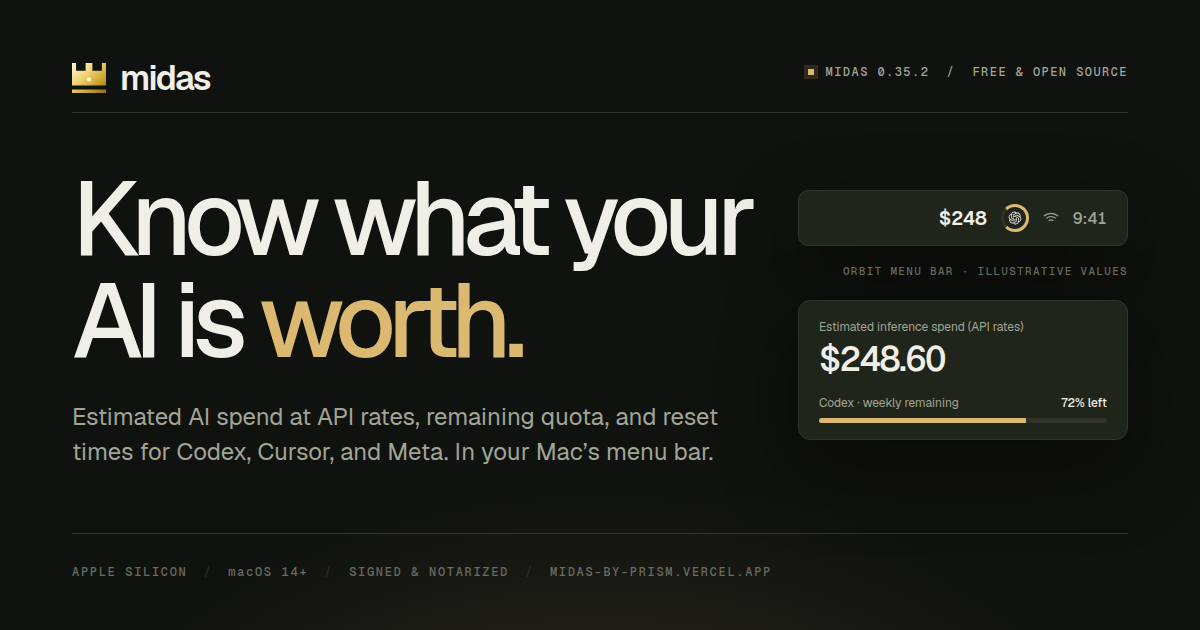
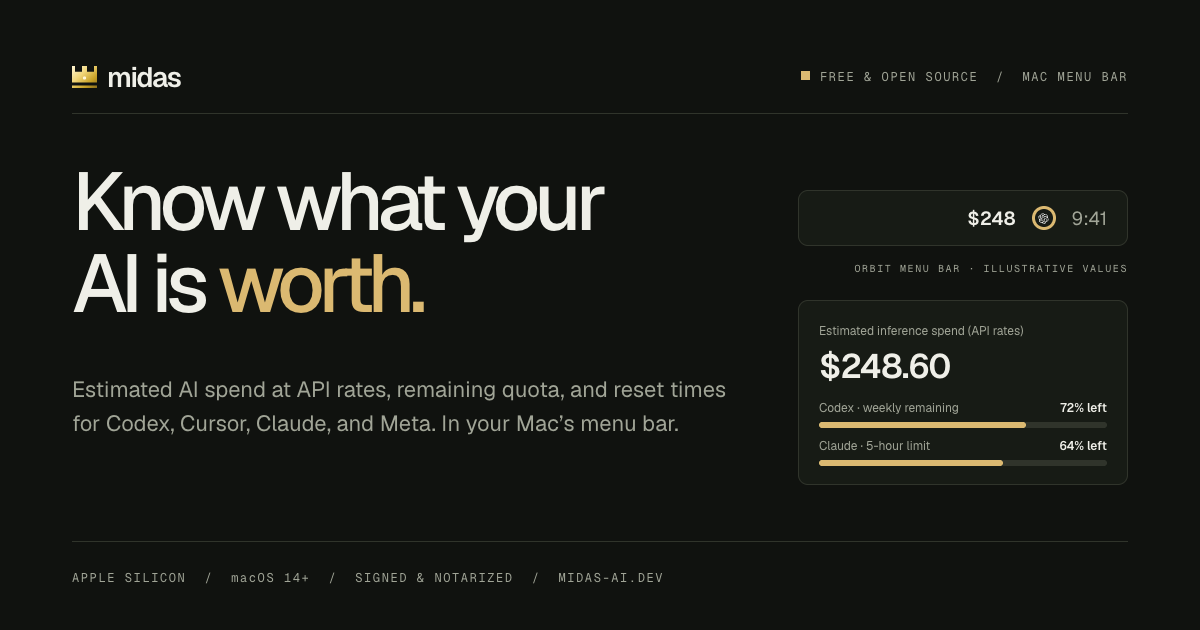
Bring the site up to date with Midas 0.37.1
- Canonical, Open Graph, robots, and sitemap URLs move to midas-ai.dev; the
  midas-by-prism.vercel.app host permanently redirects there.
- Regenerate the social image (it still said 0.35.2 and the vercel.app domain);
  it is now version-free and its composition lives in docs/og.html.
- Add Claude 5-hour/weekly limits and Anthropic billed API spend (0.36.0) to
  the hero, features, setup note, FAQ, and provider strip (50+ providers).
- Fix the FAQ claim that the bundle keeps the CodexBar filename (untrue since
  0.37.0) and explain the one-time manual update from 0.36.0 or earlier.

diff --git a/index.html b/index.html
@@ -5,9 +5,9 @@
   <meta charset="UTF-8" /><meta name="viewport" content="width=device-width, initial-scale=1.0" />
   <meta name="theme-color" content="#f7f7f2" />
   <title>Midas — See what your AI subscriptions are worth</title>
-  <meta name="description" content="Midas is a free, open-source Mac menu bar app for heavy AI users. It shows your estimated inference spend at API rates, remaining quota, reset times, and banked resets for Codex, Cursor, Meta, and more." />
-  <meta property="og:title" content="Midas — See what your AI subscriptions are worth" /><meta property="og:description" content="Estimated AI spend at API rates, remaining quota, and reset times for Codex, Cursor, and Meta, in your Mac’s menu bar. Free and open source." /><meta property="og:type" content="website" /><meta property="og:site_name" content="Midas" />
-  <meta name="twitter:card" content="summary_large_image" /><meta name="twitter:title" content="Midas — See what your AI subscriptions are worth" /><meta name="twitter:description" content="Estimated AI spend at API rates, remaining quota, and reset times for Codex, Cursor, and Meta, in your Mac’s menu bar. Free and open source." /><meta property="og:image" content="https://midas-by-prism.vercel.app/og.png?v=2" /><meta property="og:image:width" content="1200" /><meta property="og:image:height" content="630" /><meta property="og:image:alt" content="Midas: Know what your AI is worth. Estimated AI spend at API rates, remaining quota, and reset times for Codex, Cursor, and Meta, in your Mac’s menu bar. Shown with an illustrative Orbit menu-bar reading and spend card." /><meta property="og:image:type" content="image/png" /><meta name="twitter:image" content="https://midas-by-prism.vercel.app/og.png?v=2" /><meta property="og:url" content="https://midas-by-prism.vercel.app/" /><link rel="canonical" href="https://midas-by-prism.vercel.app/" />
+  <meta name="description" content="Midas is a free, open-source Mac menu bar app for heavy AI users. It shows your estimated inference spend at API rates, remaining quota, reset times, and banked resets for Codex, Cursor, Claude, Meta, and more." />
+  <meta property="og:title" content="Midas — See what your AI subscriptions are worth" /><meta property="og:description" content="Estimated AI spend at API rates, remaining quota, and reset times for Codex, Cursor, Claude, and Meta, in your Mac’s menu bar. Free and open source." /><meta property="og:type" content="website" /><meta property="og:site_name" content="Midas" />
+  <meta name="twitter:card" content="summary_large_image" /><meta name="twitter:title" content="Midas — See what your AI subscriptions are worth" /><meta name="twitter:description" content="Estimated AI spend at API rates, remaining quota, and reset times for Codex, Cursor, Claude, and Meta, in your Mac’s menu bar. Free and open source." /><meta property="og:image" content="https://midas-ai.dev/og.png?v=3" /><meta property="og:image:width" content="1200" /><meta property="og:image:height" content="630" /><meta property="og:image:alt" content="Midas: Know what your AI is worth. Estimated AI spend at API rates, remaining quota, and reset times for Codex, Cursor, Claude, and Meta, in your Mac’s menu bar. Shown with an illustrative Orbit menu-bar reading and a spend card with Codex weekly and Claude 5-hour limits." /><meta property="og:image:type" content="image/png" /><meta name="twitter:image" content="https://midas-ai.dev/og.png?v=3" /><meta property="og:url" content="https://midas-ai.dev/" /><link rel="canonical" href="https://midas-ai.dev/" />
   <link rel="icon" type="image/svg+xml" href="/favicon.svg" />
   <script>try{const t=localStorage.getItem('midas-theme');document.documentElement.dataset.theme=t==='light'||t==='dark'?t:matchMedia('(prefers-color-scheme: dark)').matches?'dark':'light'}catch{}</script>
 </head>
@@ -23,13 +23,13 @@
     <div class="hero-copy">
       <a class="release-tag mono" href="https://github.com/enzo-prism/midas/releases/tag/v0.37.1-midas.1"><span class="status-dot"></span> MIDAS 0.37.1 <span class="tag-divider">/</span> CURSOR IS BACK <i data-lucide="arrow-up-right"></i></a>
       <h1 id="hero-title">Know what your<br />AI is <span>worth.</span></h1>
-      <p class="hero-description">Midas sits in your Mac’s menu bar and shows what your Codex, Cursor, and Meta usage would cost at API rates, how much quota is left, and when it resets. Spend your subscriptions on purpose, not on guesswork.</p>
+      <p class="hero-description">Midas sits in your Mac’s menu bar and shows what your Codex, Cursor, and Meta usage would cost at API rates, how much of your Codex, Claude, and Cursor quota is left, and when it resets. Spend your subscriptions on purpose, not on guesswork.</p>
       <div class="hero-actions"><a class="button button-primary download-link" href="https://github.com/enzo-prism/midas/releases/download/v0.37.1-midas.1/Midas-0.37.1-macos-arm64.zip"><i data-lucide="download"></i> Download for Mac <i data-lucide="arrow-up-right"></i></a><a class="text-link" href="#overview">See it in action <i data-lucide="arrow-down-right"></i></a></div>
       <p class="compatibility mono">FREE & OPEN SOURCE <span>·</span> APPLE SILICON <span>·</span> macOS 14+ <span>·</span> SIGNED & NOTARIZED</p>
     </div>
     <div class="hero-art" aria-hidden="true"><canvas id="ascii-crown"></canvas><div class="art-footer mono"><span>PRICED AT PUBLIC API RATES.</span><span>MISSING DATA IS NEVER SHOWN AS $0.</span></div><span class="cross cross-tl">+</span><span class="cross cross-br">+</span></div>
   </section>
-  <div class="provider-strip wrap"><p class="mono">WORKS WITH THE TOOLS<br />YOU ALREADY PAY FOR.</p><div class="provider-marquee" role="img" aria-label="Provider logos: Codex, Cursor, Meta, Claude, Gemini, GitHub Copilot, OpenRouter, Grok, Perplexity, Mistral, DeepSeek, Ollama, Kimi, MiniMax, Warp, Amp, Augment, Windsurf, OpenCode, z.ai"><div class="provider-track"><ul class="provider-set provider-wordmarks"><li><img src="/providers/codex.svg" alt="" />Codex</li><li><img src="/providers/cursor.svg" alt="" />Cursor</li><li><img class="preserve-color" src="/providers/meta.svg" alt="" />Meta</li><li><img src="/providers/claude.svg" alt="" />Claude</li><li><img src="/providers/gemini.svg" alt="" />Gemini</li><li><img src="/providers/copilot.svg" alt="" />Copilot</li><li><img src="/providers/openrouter.svg" alt="" />OpenRouter</li><li><img src="/providers/grok.svg" alt="" />Grok</li><li><img src="/providers/perplexity.svg" alt="" />Perplexity</li><li><img src="/providers/mistral.svg" alt="" />Mistral</li><li><img src="/providers/deepseek.svg" alt="" />DeepSeek</li><li><img src="/providers/ollama.svg" alt="" />Ollama</li><li><img src="/providers/kimi.svg" alt="" />Kimi</li><li><img src="/providers/minimax.svg" alt="" />MiniMax</li><li><img src="/providers/warp.svg" alt="" />Warp</li><li><img src="/providers/amp.svg" alt="" />Amp</li><li><img src="/providers/augment.svg" alt="" />Augment</li><li><img src="/providers/windsurf.svg" alt="" />Windsurf</li><li><img src="/providers/opencode.svg" alt="" />OpenCode</li><li><img src="/providers/zai.svg" alt="" />z.ai</li></ul><ul class="provider-set provider-wordmarks" aria-hidden="true"><li><img src="/providers/codex.svg" alt="" />Codex</li><li><img src="/providers/cursor.svg" alt="" />Cursor</li><li><img class="preserve-color" src="/providers/meta.svg" alt="" />Meta</li><li><img src="/providers/claude.svg" alt="" />Claude</li><li><img src="/providers/gemini.svg" alt="" />Gemini</li><li><img src="/providers/copilot.svg" alt="" />Copilot</li><li><img src="/providers/openrouter.svg" alt="" />OpenRouter</li><li><img src="/providers/grok.svg" alt="" />Grok</li><li><img src="/providers/perplexity.svg" alt="" />Perplexity</li><li><img src="/providers/mistral.svg" alt="" />Mistral</li><li><img src="/providers/deepseek.svg" alt="" />DeepSeek</li><li><img src="/providers/ollama.svg" alt="" />Ollama</li><li><img src="/providers/kimi.svg" alt="" />Kimi</li><li><img src="/providers/minimax.svg" alt="" />MiniMax</li><li><img src="/providers/warp.svg" alt="" />Warp</li><li><img src="/providers/amp.svg" alt="" />Amp</li><li><img src="/providers/augment.svg" alt="" />Augment</li><li><img src="/providers/windsurf.svg" alt="" />Windsurf</li><li><img src="/providers/opencode.svg" alt="" />OpenCode</li><li><img src="/providers/zai.svg" alt="" />z.ai</li></ul></div></div><a href="https://github.com/enzo-prism/midas#providers" class="mono" target="_blank" rel="noopener noreferrer">40+ PROVIDERS <i data-lucide="arrow-up-right"></i></a></div>
+  <div class="provider-strip wrap"><p class="mono">WORKS WITH THE TOOLS<br />YOU ALREADY PAY FOR.</p><div class="provider-marquee" role="img" aria-label="Provider logos: Codex, Cursor, Meta, Claude, Gemini, GitHub Copilot, OpenRouter, Grok, Perplexity, Mistral, DeepSeek, Ollama, Kimi, MiniMax, Warp, Amp, Augment, Windsurf, OpenCode, z.ai"><div class="provider-track"><ul class="provider-set provider-wordmarks"><li><img src="/providers/codex.svg" alt="" />Codex</li><li><img src="/providers/cursor.svg" alt="" />Cursor</li><li><img class="preserve-color" src="/providers/meta.svg" alt="" />Meta</li><li><img src="/providers/claude.svg" alt="" />Claude</li><li><img src="/providers/claude.svg" alt="" />Anthropic</li><li><img src="/providers/gemini.svg" alt="" />Gemini</li><li><img src="/providers/copilot.svg" alt="" />Copilot</li><li><img src="/providers/openrouter.svg" alt="" />OpenRouter</li><li><img src="/providers/grok.svg" alt="" />Grok</li><li><img src="/providers/perplexity.svg" alt="" />Perplexity</li><li><img src="/providers/mistral.svg" alt="" />Mistral</li><li><img src="/providers/deepseek.svg" alt="" />DeepSeek</li><li><img src="/providers/ollama.svg" alt="" />Ollama</li><li><img src="/providers/kimi.svg" alt="" />Kimi</li><li><img src="/providers/minimax.svg" alt="" />MiniMax</li><li><img src="/providers/warp.svg" alt="" />Warp</li><li><img src="/providers/amp.svg" alt="" />Amp</li><li><img src="/providers/augment.svg" alt="" />Augment</li><li><img src="/providers/windsurf.svg" alt="" />Windsurf</li><li><img src="/providers/opencode.svg" alt="" />OpenCode</li><li><img src="/providers/zai.svg" alt="" />z.ai</li></ul><ul class="provider-set provider-wordmarks" aria-hidden="true"><li><img src="/providers/codex.svg" alt="" />Codex</li><li><img src="/providers/cursor.svg" alt="" />Cursor</li><li><img class="preserve-color" src="/providers/meta.svg" alt="" />Meta</li><li><img src="/providers/claude.svg" alt="" />Claude</li><li><img src="/providers/claude.svg" alt="" />Anthropic</li><li><img src="/providers/gemini.svg" alt="" />Gemini</li><li><img src="/providers/copilot.svg" alt="" />Copilot</li><li><img src="/providers/openrouter.svg" alt="" />OpenRouter</li><li><img src="/providers/grok.svg" alt="" />Grok</li><li><img src="/providers/perplexity.svg" alt="" />Perplexity</li><li><img src="/providers/mistral.svg" alt="" />Mistral</li><li><img src="/providers/deepseek.svg" alt="" />DeepSeek</li><li><img src="/providers/ollama.svg" alt="" />Ollama</li><li><img src="/providers/kimi.svg" alt="" />Kimi</li><li><img src="/providers/minimax.svg" alt="" />MiniMax</li><li><img src="/providers/warp.svg" alt="" />Warp</li><li><img src="/providers/amp.svg" alt="" />Amp</li><li><img src="/providers/augment.svg" alt="" />Augment</li><li><img src="/providers/windsurf.svg" alt="" />Windsurf</li><li><img src="/providers/opencode.svg" alt="" />OpenCode</li><li><img src="/providers/zai.svg" alt="" />z.ai</li></ul></div></div><a href="https://github.com/enzo-prism/midas#providers" class="mono" target="_blank" rel="noopener noreferrer">50+ PROVIDERS <i data-lucide="arrow-up-right"></i></a></div>
   <section class="overview wrap section" id="overview" aria-labelledby="overview-title">
     <div class="section-intro" data-reveal><span class="eyebrow mono">01 / THE OVERVIEW</span><h2 id="overview-title">Your whole AI stack.<br /><span>One click away.</span></h2><p>Click the menu bar and Midas shows estimated inference spend for the period you choose, then breaks it down by provider. Each connected Codex account gets its own remaining-usage bar, reset time, and banked reset count.</p><a href="#demo" class="text-link">Try the interactive preview <i data-lucide="arrow-down-right"></i></a></div>
     <div class="demo-stage" id="demo" data-reveal>
@@ -61,6 +61,8 @@
       <article data-reveal><span class="feature-number mono">04</span><div class="feature-icon"><i data-lucide="cloud"></i></div><div><h3>Usage from your other Macs, priced automatically.</h3><p>Turn on Track all connected accounts and Midas combines available Codex cloud token history across your accounts and computers, then prices it with a blended rate from your recent local history. Optional iCloud sharing keeps that rate consistent between Macs.</p><span class="feature-note mono">CUSTOM RATE OR TOKENS-ONLY IF YOU PREFER</span></div></article>
       <article data-reveal><span class="feature-number mono">05</span><div class="feature-icon"><i data-lucide="ticket"></i></div><div><h3>Banked resets, counted per account.</h3><p>Codex can grant on-demand rate-limit resets. Midas shows how many each account has available, with reported expiry times, separate from the scheduled weekly reset. Zero, unavailable, and last-known are three different states, and they look different.</p><span class="feature-note mono">NEW IN 0.35.2</span></div></article>
       <article data-reveal><span class="feature-number mono">06</span><div class="feature-icon"><i data-lucide="shield-check"></i></div><div><h3>Local first. Native. Signed.</h3><p>A real SwiftUI app with a menu-bar panel and a resizable Usage window. It reuses the sign-ins you already have, stores no passwords, bundles its provider logos, and lets you turn Keychain access off entirely. Updates are signed, notarized, and delivered through Midas’s own feed.</p><span class="feature-note mono">SWIFT + SWIFTUI / macOS 14+ / APPLE SILICON</span></div></article>
+      <article data-reveal><span class="feature-number mono">07</span><div class="feature-icon"><i data-lucide="gauge"></i></div><div><h3>Claude’s 5-hour and weekly limits, together.</h3><p>Midas always shows both Claude subscription limits side by side, each with its own bar, % left, and reset time. If Claude reports only a weekly window, it is labeled weekly, never passed off as the 5-hour limit.</p><span class="feature-note mono">NEW IN 0.36.0</span></div></article>
+      <article data-reveal><span class="feature-number mono">08</span><div class="feature-icon"><i data-lucide="layers"></i></div><div><h3>Anthropic API spend, billed and separate.</h3><p>Add an organization Admin API key to see what your Anthropic API usage actually billed, with token usage by model. It is labeled Billed API spend and kept out of the estimated total, so nothing is counted twice.</p><span class="feature-note mono">NEW IN 0.36.0 / ADMIN API KEY</span></div></article>
     </div>
   </section>
   <section class="modes wrap section" id="menubar" aria-labelledby="modes-title">
@@ -80,7 +82,7 @@
       <li data-reveal><span class="step-index mono">STEP 02</span><div class="step-icon"><i data-lucide="users"></i></div><h3>Accounts</h3><p>Connect the accounts you use. Codex supports several separate sign-ins. Cursor opens its existing browser sign-in. Meta reads Muse activity already on this Mac.</p></li>
       <li data-reveal><span class="step-index mono">STEP 03</span><div class="step-icon"><i data-lucide="gauge"></i></div><h3>Overview</h3><p>Preview estimates for your chosen period, then choose Open Midas. Background refresh keeps going while you get back to work.</p></li>
     </ol>
-    <p class="setup-footnote" data-reveal><i data-lucide="info"></i> Claude, Gemini, GitHub Copilot, OpenRouter, Grok, Perplexity, and 40+ other providers from the CodexBar foundation stay available in Settings → Providers.</p>
+    <p class="setup-footnote" data-reveal><i data-lucide="info"></i> Claude’s 5-hour and weekly limits appear in the overview once Claude is enabled. The Anthropic API, Gemini, GitHub Copilot, OpenRouter, Grok, Perplexity, and 40+ other providers from the CodexBar foundation are in Settings → Providers.</p>
   </section>
   <section class="trust wrap section" id="trust" aria-labelledby="trust-title">
     <div class="section-intro" data-reveal><span class="eyebrow mono">05 / HOW THE NUMBERS WORK</span><h2 id="trust-title">Estimates you can<br /><span>actually reason about.</span></h2><p>Midas would rather show you a gap than a comforting wrong number. These rules apply everywhere a figure appears: panel, Usage window, menu bar, and tooltips.</p></div>
@@ -93,12 +95,12 @@
   <section class="faq wrap section" id="faq" aria-labelledby="faq-title"><div data-reveal><span class="eyebrow mono">07 / QUESTIONS</span><h2 id="faq-title">Before you download.</h2></div><div class="faq-items" data-reveal>
     <details><summary>Is “estimated spend” the same as my bill?<i data-lucide="plus"></i></summary><p>No. Midas prices your tokens at public API rates to show what that usage would have cost pay-as-you-go. Subscription fees, credits, discounts, and each provider’s billing rules are different. If an estimate is missing, Midas leaves it out and marks the total as partial instead of counting it as $0.</p></details>
     <details><summary>How does Midas put a dollar figure on Codex usage from my other Macs?<i data-lucide="plus"></i></summary><p>With Track all connected accounts on, Midas reads available Codex cloud token history for each connected account and combines it across computers. It prices those tokens with a blended rate taken from your recent priced local history. If it has no usable sample, the dollar figure stays unavailable. You can also set your own rate or show tokens only. Cloud history comes from private ChatGPT analytics endpoints, not an official billing API, so it can change independently of Midas.</p></details>
-    <details><summary>Which Macs can run Midas?<i data-lucide="plus"></i></summary><p>Apple Silicon Macs running macOS 14 Sonoma or later. Download the ZIP, unzip it, and move the app to Applications. The bundle keeps the CodexBar filename for compatibility with existing settings.</p></details>
+    <details><summary>Which Macs can run Midas?<i data-lucide="plus"></i></summary><p>Apple Silicon Macs running macOS 14 Sonoma or later. Download the ZIP, unzip it, and move Midas to Applications. Since 0.37.0 Midas is its own app, so it can sit next to an upstream CodexBar install, and your settings from earlier versions come along on first launch.</p></details>
     <details><summary>Do all providers show remaining quota?<i data-lucide="plus"></i></summary><p>Only when the provider reports one. Codex shows weekly remaining, Cursor uses its reported quota, and Meta has no quota, so Midas shows a dashed ring rather than a made-up percentage. Quota percentages are never averaged across accounts or providers.</p></details>
     <details><summary>What is a banked reset?<i data-lucide="plus"></i></summary><p>Codex can grant on-demand rate-limit resets. Midas shows how many each connected account has available, separate from the scheduled weekly reset. Zero means none are available, Unavailable means no count was reported, and stale counts are labeled last known. Hover a row or expand account details to see reported expiry times.</p></details>
-    <details><summary>What about Claude, Gemini, Copilot, and the rest?<i data-lucide="plus"></i></summary><p>Guided setup covers Codex, Cursor, and Meta. Every provider from the CodexBar foundation, including Claude, Gemini, GitHub Copilot, OpenRouter, Grok, Perplexity, and more than 40 others, stays available in Settings → Providers.</p></details>
-    <details><summary>What leaves my Mac?<i data-lucide="plus"></i></summary><p>Midas talks to providers with the credentials you already have and never stores passwords. Provider logos are bundled, so opening the app makes no logo requests. Optional iCloud sharing sends only derived pricing samples between your own Macs (a rate, token counts, timestamps, a device identifier, and a hashed account-set identifier), never prompts, emails, or credentials, and they expire after 24 hours.</p></details>
-    <details><summary>How do updates work?<i data-lucide="plus"></i></summary><p>Choose Check for Updates in the panel, then Download and Install &amp; Restart. Releases are signed and notarized and delivered through Midas’s own Sparkle feed, which accepts only signed Midas builds. Automatic checks live in Settings → About.</p></details>
+    <details><summary>What about Claude, Gemini, Copilot, and the rest?<i data-lucide="plus"></i></summary><p>Guided setup covers Codex, Cursor, and Meta. Turn on Claude to see its 5-hour and weekly limits in the overview, or add an Anthropic Admin API key for billed API spend. Every provider from the CodexBar foundation, including Gemini, GitHub Copilot, OpenRouter, Grok, Perplexity, and more than 40 others, is available in Settings → Providers.</p></details>
+    <details><summary>What leaves my Mac?<i data-lucide="plus"></i></summary><p>Midas talks to providers with the credentials you already have and never stores passwords. API keys you add yourself, such as an Anthropic Admin key, stay in your Mac’s Keychain. Provider logos are bundled, so opening the app makes no logo requests. Optional iCloud sharing sends only derived pricing samples between your own Macs (a rate, token counts, timestamps, a device identifier, and a hashed account-set identifier), never prompts, emails, or credentials, and they expire after 24 hours.</p></details>
+    <details><summary>How do updates work?<i data-lucide="plus"></i></summary><p>Choose Check for Updates in the panel, then Download and Install &amp; Restart. Releases are signed and notarized and delivered through Midas’s own Sparkle feed, which accepts only signed Midas builds. Automatic checks live in Settings → About. Coming from 0.36.0 or earlier? Midas moved to its own app identity in 0.37.0, so download the latest release once and replace your copy; updates are automatic again afterwards, and widgets need to be re-added once.</p></details>
   </div></section>
   <section class="updates wrap section" id="updates" aria-labelledby="updates-title">
     <div class="section-heading" data-reveal><div><span class="eyebrow mono">08 / RELEASE NOTES</span><h2 id="updates-title">What shipped,<br /><span>release by release.</span></h2></div><p>Every release is signed and notarized, with full notes on GitHub. Newest first.</p></div>

diff --git a/docs/og.html b/docs/og.html
@@ -1,0 +1,32 @@
+<!doctype html><html data-theme="dark"><head><meta charset="UTF-8"><link rel="stylesheet" href="/src/style.css">
+<style>
+body{width:1200px;height:630px;overflow:hidden;background:var(--bg);color:var(--fg);position:relative;margin:0}
+.top{position:absolute;left:72px;right:72px;top:58px;height:56px;display:flex;align-items:center;justify-content:space-between;border-bottom:1px solid var(--line)}
+.brand{display:flex;align-items:center;gap:12px;font-size:30px;font-weight:600;letter-spacing:-.6px;padding-bottom:18px}
+.tag,.foot{font-family:'Geist Mono Variable',monospace;font-size:12px;letter-spacing:1.6px;color:var(--muted);text-transform:uppercase}
+.tag{padding-bottom:18px}.tag b{display:inline-block;width:9px;height:9px;background:var(--accent);margin-right:10px;vertical-align:1px}
+h1{position:absolute;left:72px;top:160px;margin:0;font-size:92px;line-height:.98;font-weight:500;letter-spacing:-4px}
+h1 span{color:var(--accent)}
+.sub{position:absolute;left:72px;top:372px;width:660px;margin:0;font-size:22px;line-height:1.55;color:var(--muted)}
+.foot{position:absolute;left:72px;right:72px;bottom:44px;border-top:1px solid var(--line);padding-top:28px;display:flex;gap:18px}
+.card{position:absolute;right:72px;width:330px;border:1px solid var(--line);border-radius:10px;background:var(--surface)}
+.menubar{top:190px;height:56px;display:flex;align-items:center;justify-content:flex-end;gap:16px;padding:0 20px;font-size:19px;font-weight:600}
+.ring{width:24px;height:24px;border-radius:50%;border:3px solid var(--accent);display:grid;place-items:center}.ring img{width:13px;filter:invert(1)}
+.clock{font-weight:400;color:var(--muted)}
+.cap{position:absolute;right:72px;top:262px;font-family:'Geist Mono Variable',monospace;font-size:10px;letter-spacing:1.6px;color:var(--muted)}
+.spend{top:300px;padding:18px 20px}
+.spend small{font-size:12px;color:var(--muted)}.spend .total{font-size:34px;font-weight:600;letter-spacing:-1px;margin:4px 0 12px}
+.row{display:flex;justify-content:space-between;font-size:12px;color:var(--muted);margin-top:10px}.row b{color:var(--fg);font-weight:600}
+.bar{height:6px;border-radius:3px;background:var(--line);margin-top:6px}.bar i{display:block;height:100%;border-radius:3px;background:var(--accent)}
+</style></head><body>
+<div class="top"><div class="brand"><span class="pixel-crown" aria-hidden="true"><svg viewBox="0 0 25 22" width="25" height="22" focusable="false" aria-hidden="true"><defs><linearGradient id="crown-gold-h" x1="0" y1="0" x2="1" y2="1"><stop offset="0" stop-color="#FFF6D5"/><stop offset=".38" stop-color="#F1D67A"/><stop offset=".72" stop-color="#C9A227"/><stop offset="1" stop-color="#8A6D1B"/></linearGradient></defs><path d="M0 0h3v5.7h7V0h5v5.7h7V0h3v16.5H0z M0 19.4h25V22H0z" fill="url(#crown-gold-h)"/><circle cx="12.5" cy="12" r="1.6" fill="#FFF6D8"/></svg></span><span>midas</span></div><div class="tag"><b></b>Free &amp; open source &nbsp;/&nbsp; Mac menu bar</div></div>
+<h1>Know what your<br>AI is <span>worth.</span></h1>
+<p class="sub">Estimated AI spend at API rates, remaining quota, and reset times for Codex, Cursor, Claude, and Meta. In your Mac’s menu bar.</p>
+<div class="card menubar"><span>$248</span><span class="ring"><img src="/providers/codex.svg" alt=""></span><span class="clock">9:41</span></div>
+<div class="cap">ORBIT MENU BAR · ILLUSTRATIVE VALUES</div>
+<div class="card spend"><small>Estimated inference spend (API rates)</small><div class="total">$248.60</div>
+<div class="row"><span>Codex · weekly remaining</span><b>72% left</b></div><div class="bar"><i style="width:72%"></i></div>
+<div class="row"><span>Claude · 5-hour limit</span><b>64% left</b></div><div class="bar"><i style="width:64%"></i></div></div>
+<div class="foot"><span>Apple Silicon</span><span>/</span><span style="text-transform:none">macOS 14+</span><span>/</span><span>Signed &amp; notarized</span><span>/</span><span>midas-ai.dev</span></div>
+<script type="module">import '/src/style.css';</script>
+</body></html>

diff --git a/tests/site.spec.ts b/tests/site.spec.ts
@@ -71,7 +71,7 @@ test('per-account Codex details only appear for the Codex favorite', async ({ pa
 
 test('provider marquee renders every bundled logo and a static fallback under reduced motion', async ({ page }) => {
   const logos = page.locator('.provider-set:not([aria-hidden]) img');
-  expect(await logos.count()).toBe(20);
+  expect(await logos.count()).toBe(21);
   for (const logo of await logos.all()) {
     expect(await logo.evaluate((img: HTMLImageElement) => img.complete && img.naturalWidth > 0)).toBe(true);
   }
@@ -182,4 +182,14 @@ test('download CTAs point to the actual Midas arm64 app ZIP', async ({ page }) =
     await expect(link).toHaveAttribute('href', 'https://github.com/enzo-prism/midas/releases/download/v0.37.1-midas.1/Midas-0.37.1-macos-arm64.zip');
   }
   await expect(page.locator('body')).toContainText('Apple Silicon');
+});
+
+test('canonical domain and current product claims', async ({ page }) => {
+  await expect(page.locator('link[rel="canonical"]')).toHaveAttribute('href', 'https://midas-ai.dev/');
+  await expect(page.locator('meta[property="og:url"]')).toHaveAttribute('content', 'https://midas-ai.dev/');
+  await expect(page.locator('meta[property="og:image"]')).toHaveAttribute('content', /^https:\/\/midas-ai\.dev\//);
+  const features = page.locator('#details .feature-list');
+  await expect(features).toContainText('5-hour and weekly limits');
+  await expect(features).toContainText('Billed API spend');
+  await expect(page.locator('body')).not.toContainText('keeps the CodexBar filename');
 });

diff --git a/README.md b/README.md
@@ -2,7 +2,7 @@
 
 Marketing site for [Midas](https://github.com/enzo-prism/midas), a free and open-source macOS menu-bar app that shows estimated AI inference spend at API rates, remaining quota, reset times, and banked resets for Codex, Cursor, Meta, and the other CodexBar providers.
 
-Public site: https://midas-by-prism.vercel.app
+Public site: https://midas-ai.dev (the `midas-by-prism.vercel.app` host permanently redirects there via `vercel.json`)
 
 ## Develop
 
@@ -10,7 +10,7 @@ Node 22 and pnpm. Run `pnpm install`, then `pnpm dev`.
 
 - `pnpm build`: TypeScript checks and Vite production build.
 - `pnpm test`: fourteen browser regression checks. Start `pnpm dev --port 4173` first.
-- `BASE_URL=https://midas-by-prism.vercel.app pnpm test`: public-site smoke checks.
+- `BASE_URL=https://midas-ai.dev pnpm test`: public-site smoke checks.
 
 Tests use installed Google Chrome through Playwright's chrome channel. Install Chrome if unavailable.
 
@@ -24,7 +24,7 @@ Page order: hero, provider logo marquee, interactive overview demo (`#overview`)
 
 Motion: scroll reveal, the logo marquee, quota-bar fills, and the pulsing release dot are wrapped in `prefers-reduced-motion: no-preference` or disabled by the global reduced-motion rule. Under Reduce Motion the marquee becomes a static wrapped logo grid and every `[data-reveal]` element is visible without transitions.
 
-Brand assets are minimal: `public/favicon.svg` and `public/og.png` share one gold crown mark. The 1200x630 social image is rendered from an HTML composition (site fonts, dark theme tokens, hero headline and subline, illustrative Orbit and spend-card mockups); regenerate it whenever the hero copy or version changes and bump the `?v=` query on the `og:image` and `twitter:image` URLs so scrapers refetch it. Provider logos render monochrome (dark ink in light mode, inverted in dark mode); only Meta keeps its brand color via `preserve-color`. Logo files come from the Midas app repository; see THIRD_PARTY_NOTICES.md and never redraw a mark.
+Brand assets are minimal: `public/favicon.svg` and `public/og.png` share one gold crown mark. The 1200x630 social image is rendered from an HTML composition (site fonts, dark theme tokens, hero headline and subline, illustrative Orbit and spend-card mockups); the composition is `docs/og.html` (render with `pnpm exec vite --port 4174` then `node docs/render-og.mjs`). It deliberately shows no version number, so it only needs regenerating when the hero copy or supported-provider line changes; then bump the `?v=` query on the `og:image` and `twitter:image` URLs so scrapers refetch it. Provider logos render monochrome (dark ink in light mode, inverted in dark mode); only Meta keeps its brand color via `preserve-color`. Logo files come from the Midas app repository; see THIRD_PARTY_NOTICES.md and never redraw a mark.
 
 The header, preview, and footer crowns (`span.pixel-crown` in `index.html`) are layered SVG: a four-stop gold gradient with a gem highlight, plus CSS-only motion (entrance rise, gentle float, breathing glow, periodic sheen sweep, single star twinkle, hover lift). See `docs/crown.md` for tokens and timings. Motion is transform/filter/opacity only and collapses to a static gold mark under Reduce Motion.
 
@@ -50,4 +50,4 @@ Midas is a fork of CodexBar by Peter Steinberger and contributors. Provider mark
 
 ## Google Search Console
 
-URL-prefix property: `https://midas-by-prism.vercel.app/`. Ownership uses the Google verification meta tag in `index.html`; preserve it through redesigns. Sitemap: `https://midas-by-prism.vercel.app/sitemap.xml`. A new custom domain needs its own property and updated canonical/sitemap URLs.
+Canonical, Open Graph, robots, and sitemap URLs use `https://midas-ai.dev/`. The original URL-prefix property is `https://midas-by-prism.vercel.app/` (verified by the Google meta tag in `index.html`; preserve it through redesigns); `midas-ai.dev` needs its own Search Console property with sitemap `https://midas-ai.dev/sitemap.xml`.
